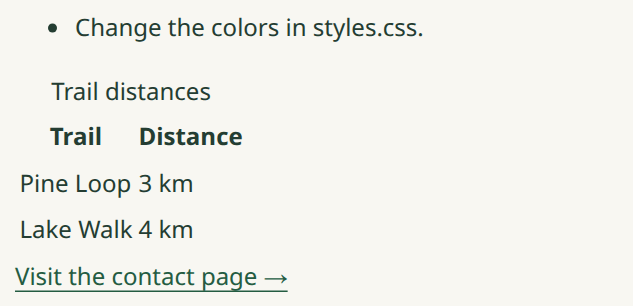
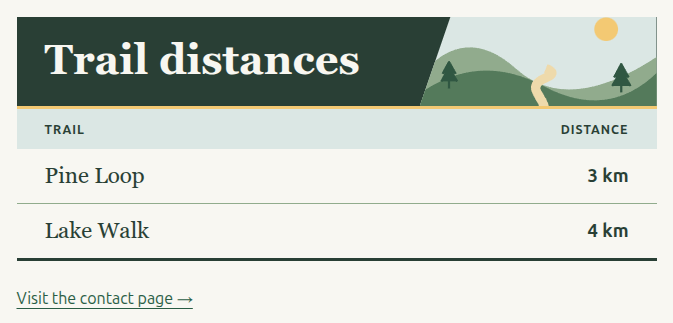
docs: turn the trail table into an illustrated walking guide

diff --git a/static/tutorials/first-website/styles.css b/static/tutorials/first-website/styles.css
@@ -78,3 +78,73 @@ footer {
   color: #586b5c;
   font-size: 0.9rem;
 }
+
+/* Trail table */
+.trail-table {
+  width: 100%;
+  max-width: 40rem;
+  margin: 1.5rem 0;
+  border-spacing: 0;
+  border-bottom: 3px solid #243d32;
+  color: #243d32;
+  overflow-wrap: anywhere;
+}
+
+.trail-table caption {
+  position: relative;
+  padding: 1.35rem 39% 1.45rem clamp(1rem, 4vw, 1.75rem);
+  border-bottom: 3px solid #f3ca74;
+  color: #f8f7f2;
+  background: #243d32;
+  font: bold clamp(1.65rem, 4.5vw, 2.6rem)/1.08 Georgia, serif;
+  text-align: left;
+}
+
+.trail-table caption::after {
+  content: "";
+  position: absolute;
+  inset: 0 0 0 auto;
+  width: 37%;
+  background: url("images/trail.svg") 72% center / cover no-repeat;
+  clip-path: polygon(13% 0, 100% 0, 100% 100%, 0 100%);
+  pointer-events: none;
+}
+
+.trail-table th,
+.trail-table td {
+  padding: 0.7rem clamp(1rem, 4vw, 1.75rem);
+  text-align: left;
+}
+
+.trail-table thead th {
+  color: #243d32;
+  background: #dce8e5;
+  font-size: 0.78rem;
+  line-height: 1.4;
+  letter-spacing: 0.08em;
+  text-transform: uppercase;
+}
+
+.trail-table tbody td {
+  background: #f8f7f2;
+  font-size: 1.15rem;
+  line-height: 1.4;
+}
+
+.trail-table tbody tr + tr td {
+  border-top: 1px solid #92ad8e;
+}
+
+.trail-table tbody td:first-child {
+  font: normal 1.4rem/1.4 Georgia, serif;
+}
+
+.trail-table th:last-child,
+.trail-table td:last-child {
+  text-align: right;
+  font-variant-numeric: tabular-nums;
+}
+
+.trail-table td:last-child {
+  font-weight: 700;
+}

diff --git a/static/tutorials/trail-table.html b/static/tutorials/trail-table.html
@@ -1,0 +1,38 @@
+<!doctype html>
+<html lang="en">
+<head>
+  <meta charset="utf-8">
+  <meta name="viewport" content="width=device-width, initial-scale=1">
+  <meta name="robots" content="noindex">
+  <title>Trail distances | Trail Notes</title>
+  <link rel="stylesheet" href="first-website/styles.css">
+  <style>
+    body { max-width: 40rem; padding: 0; background: transparent; }
+    .trail-table { margin: 0; }
+    @media (min-width: 45rem) {
+      body { padding-block: 2rem; }
+    }
+  </style>
+</head>
+<body>
+  <table class="trail-table">
+    <caption>Trail distances</caption>
+    <thead>
+      <tr>
+        <th scope="col">Trail</th>
+        <th scope="col">Distance</th>
+      </tr>
+    </thead>
+    <tbody>
+      <tr>
+        <td>Pine Loop</td>
+        <td>3 km</td>
+      </tr>
+      <tr>
+        <td>Lake Walk</td>
+        <td>4 km</td>
+      </tr>
+    </tbody>
+  </table>
+</body>
+</html>

diff --git a/docs/10-Tutorials/11-add-html-table.md b/docs/10-Tutorials/11-add-html-table.md
@@ -1,7 +1,7 @@
 ---
 title: Add a table to an HTML page
 slug: /tutorials/add-html-table
-description: Insert an HTML table visually in Phoenix Pro or edit the HTML in Community (free). Add a trail, change its distance, and check both rows in Live Preview.
+description: Build an illustrated trail-distance table in Phoenix Pro or Community (free). Add a caption, style the table, and compare two walks in Live Preview.
 image: /tutorials/media/html-table-saved-result.png
 toc_max_heading_level: 2
 ---
@@ -10,7 +10,15 @@ import Tabs from '@theme/Tabs';
 import TabItem from '@theme/TabItem';
 import TutorialIcon from '@site/src/components/TutorialIcon';
 
-Put two trails and their distances on the About page of a small website. In **Phoenix Pro**, insert the table and edit its cells in Live Preview. In **Community (free)**, edit the HTML beside the preview. Both paths use the Trail Notes practice site and work on Windows, macOS, and Linux.
+Build this trail guide on the About page of the Trail Notes practice website. In **Phoenix Pro**, you'll work in Live Preview. In **Community (free)**, you'll edit the HTML beside it. Both methods work on Windows, macOS, and Linux.
+
+<iframe
+  src="/tutorials/trail-table.html"
+  title="Finished trail table. Pine Loop is 3 km and Lake Walk is 4 km."
+  style={{display: 'block', width: '100%', maxWidth: '40rem', height: '16rem', border: 0}}
+/>
+
+[Open the finished table on its own.](pathname:///tutorials/trail-table.html)
 
 Click or tap any screenshot to open it full size.
 
@@ -40,13 +48,17 @@ You'll put the table between the bulleted list and **Visit the contact page**.
 
    [![Insert Element with Before selected, table in the search field, and the Table result with a grid icon above the selected Contact link.](/tutorials/media/html-table-pro-insert.png)](pathname:///tutorials/media/html-table-pro-insert.png)
 
-4. Double-click **Header 1**, select its text, type `Trail`, and press **Enter**. Change **Header 2** to `Distance` the same way. In the row below, change **Cell 1** to `Pine Loop` and **Cell 2** to `2 km`.
-5. Give the table a caption. Click **Trail** once, then click the **up arrow** (**Select Parent**) on the blue toolbar twice. The toolbar label changes from `th` (one heading) to `tr` (one row) to `thead` (the heading section).
-6. With `thead` selected, click **+**, choose **Before**, and type `caption` in **Search elements**. Click **Create `<caption>`**. Double-click the new words **caption content** above the headings, replace them with `Trail distances`, and press **Enter**.
+4. On the new table's blue toolbar, click **table** to open **Element Properties**. Under **Class**, click **Add a class…**, type `trail-table`, and press **Enter**. If the input is closed, click **+** to open it. The headings appear on a pale green band and the distances line up on the right. Close **Element Properties** with its **×**.
+
+   [![Element Properties for the table shows trail-table in the Class field. The column headings and cells now span the width of the table.](/tutorials/media/html-table-pro-class.png)](pathname:///tutorials/media/html-table-pro-class.png)
+
+5. Double-click **Header 1**, select its text, type `Trail`, and press **Enter**. Change **Header 2** to `Distance` the same way. In the row below, change **Cell 1** to `Pine Loop` and **Cell 2** to `2 km`.
+6. Give the table a caption. Click **Trail** once, then click the **up arrow** (**Select Parent**) on the blue toolbar twice. The toolbar label changes from `th` (one heading) to `tr` (one row) to `thead` (the heading section).
+7. With `thead` selected, click **+**, choose **Before**, and type `caption` in **Search elements**. Click **Create `<caption>`**. Double-click the new words **caption content** in the illustrated banner, replace them with `Trail distances`, and press **Enter**.
 
    [![The Insert Element panel offers Create caption with Before selected and both column headings outlined together.](/tutorials/media/html-table-pro-caption.png)](pathname:///tutorials/media/html-table-pro-caption.png)
 
-7. Click <TutorialIcon name="save" label="Save File" /> beside the file list. Check that **Trail distances** appears above the headings and the first row reads **Pine Loop** and **2 km**.
+8. Click <TutorialIcon name="save" label="Save File" /> beside the file list. Check that **Trail distances** appears beside the hills and the first row reads **Pine Loop** and **2 km**.
 
 </TabItem>
 <TabItem value="community" label="Community (free)">
@@ -58,10 +70,10 @@ You'll put the table between the bulleted list and **Visit the contact page**.
 
    [![The cursor is on a blank line between the closing list tag and the Visit the contact page link in about.html.](/tutorials/media/html-table-insertion-point.png)](pathname:///tutorials/media/html-table-insertion-point.png)
 
-3. Use the copy button at the top right of this code block. Return to the blank line and choose **Edit → Paste**.
+3. Use the copy button at the top right of this code block. Return to the blank line and choose **Edit → Paste**. The opening line's `class="trail-table"` tells the browser to use the trail design from the practice site's stylesheet.
 
    ```html
-   <table>
+   <table class="trail-table">
      <caption>Trail distances</caption>
      <thead>
        <tr>
@@ -78,12 +90,19 @@ You'll put the table between the bulleted list and **Visit the contact page**.
    </table>
    ```
 
-4. Choose **File → Save File**. Look below the bullets in Live Preview. **Trail distances** is the table's caption. **Trail** and **Distance** are the column headings. The first row reads **Pine Loop** and **2 km**.
+4. Choose **File → Save File**. Look below the bullets in Live Preview. The illustrated banner shows **Trail distances**, the table's caption. Below it, the first row reads **Pine Loop** under **Trail** and **2 km** under **Distance**.
 
    [![The HTML cells for Pine Loop and 2 km appear on the left, with the same trail and distance in Live Preview on the right.](/tutorials/media/html-table-first-row.png)](pathname:///tutorials/media/html-table-first-row.png)
 
 </TabItem>
 </Tabs>
+
+<details>
+<summary>Using an older Trail Notes project and seeing a plain table?</summary>
+
+Open the [current practice stylesheet](pathname:///tutorials/first-website/styles.css). Find the comment `/* Trail table */` near the end. Copy from that comment through the last closing brace, `}`. In Phoenix Code, paste those rules at the end of your own `styles.css` and choose **File → Save File**. Click **about.html** again to see the design. The banner uses the practice site's `images/trail.svg` illustration.
+
+</details>
 
 ## 3. Change a cell and add a row {#3-change-a-cell-and-add-a-row}
 
@@ -125,6 +144,6 @@ A **cell** is one entry in the table. You'll change the first distance and give 
 
 Check the two rows in Live Preview. The first should read **Pine Loop — 3 km**, and the second **Lake Walk — 4 km**. You can also open the saved `about.html` in a browser. The Contact link should still be directly below the table.
 
-[![The saved About page shows Pine Loop at 3 km and Lake Walk at 4 km beneath the column headings, followed by the Contact link.](/tutorials/media/html-table-saved-result.png)](pathname:///tutorials/media/html-table-saved-result.png)
+[![The saved About page shows an illustrated Trail distances banner, Pine Loop at 3 km and Lake Walk at 4 km. The distances are aligned above the Contact link.](/tutorials/media/html-table-saved-result.png)](pathname:///tutorials/media/html-table-saved-result.png)
 
 If you're editing a `README.md` file, follow [Make a Markdown table with aligned columns](/blog/make-a-markdown-table).
